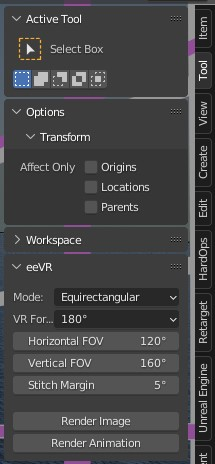
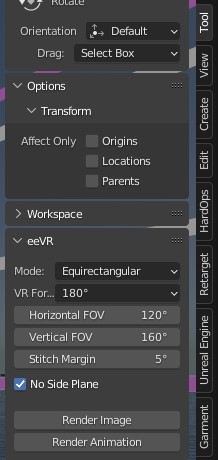
bump version

Changed region(s): [[0.0, 0.0, 1.0, 1.0], [0.0558, 0.8826, 0.8372, 1.0], [0.7814, 0.5783, 0.8093, 0.6087]]

diff --git a/__init__.py b/__init__.py
@@ -22,7 +22,7 @@ bl_info = {
     "name": "eeVR",
     "description": "Render in different projections using Eevee engine",
     "author": "EternalTrail, SAMtak",
-    "version": (0, 4, 0),
+    "version": (0, 5, 0),
     "blender": (3, 0, 0),
     "location": "View3D > Tool Tab (Available when EEVEE or Workbench)",
     "warning": "This addon is still in early alpha, may break your blend file!",

diff --git a/README.md b/README.md
@@ -6,6 +6,8 @@ Blender addon to render 360° and 180° images and videos in eevee engine with s
 
 You will need to get [**Blender 3.x**](https://www.blender.org), install it, download the zip file from this GitHub, load the addon into Blender by installing the zip file in Blender Preferences > Add-ons > Install, search for "eeVR" under the Community tab and click the checkbox to enable it. A tool panel will appear in the 3D Viewport's **Tool tab**, FOV value adjustment, and buttons for rendering stills and animations. **The rendered images/image sequences will be stored in the same directory as the .blend file**.
 
+**NOTE** : The eeVR panel appears only when the render engine is EEVEE.
+
 ![Tool Panel](img/tools-01.jpg "Tool Panel") ![Tool Panel](img/tools-02.jpg "Tool Panel")
 
 ### Stitch Margin
@@ -19,6 +21,12 @@ Stitch Margin = 5°
 Final Image
 
 ![Final Image](img/finalimage.jpg "Final Image")
+
+### No Side Plane
+
+Generates panorama image **without rendering side views**.
+
+It is neccesary Horizontal FOV is under 160°.
 
 ## License
 
